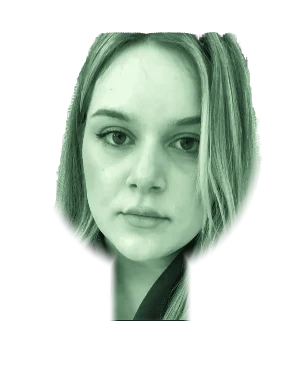
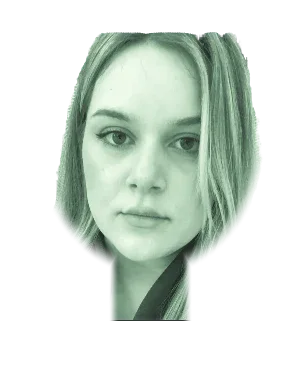
Мелочи по скриншотам: рамки, шеи, письмо в финале
Ребусы: галочка наезжала на «2+2=4», подписи Ctrl+C и Ctrl+V вылезали
за клавиши, а человечкам обрезало ноги нижним краем картинки. Ширина
надписей теперь задана через textLength, человечки подняты внутрь кадра.

Лица: на вырезках шея почти чёрная, из-за этого голова висела над
воротником. На всех 14 вырезках подняты тени (curves), шея стала видна
и переходит в воротник. Наклон головы уменьшен до ±1,2°, тень от
подбородка ослаблена.

Финал: письмо убирается крестиком, чтобы рассмотреть офис, и
возвращается кнопкой «‹ Письмо» в левом верхнем углу. Фон переговорной
заменён: вместо угла с рабочими столами общий вид лофта с антресолью,
кирпичом и коробками TERRO.

diff --git a/js/art.js b/js/art.js
@@ -6,7 +6,7 @@ export const esc = s => String(s).replace(/[&<>"]/g, c => ({ '&': '&amp;', '<': 
 // Костюм-бюст: покатые плечи, рукава по бокам, тень от подбородка на груди.
 // Голова-вырезка лежит слоем ниже, поэтому тень и воротник ложатся прямо на фото и связывают их.
 const SUIT = `
-<ellipse class="chin-shade" cx="50" cy="70.5" rx="15" ry="8.5" filter="url(#fSoft)"/>
+<ellipse class="chin-shade" cx="50" cy="67" rx="14" ry="7.5" filter="url(#fSoft)"/>
 <path class="suit" d="M17.5 200 L15.5 150 Q12 104 14.5 90 Q18 79 30 75.5 L42 71 Q50 80 58 71 L70 75.5 Q82 79 85.5 90 Q88 104 84.5 150 L82.5 200 Z"/>
 <path class="sleeve" d="M17.5 200 L15.5 150 Q12 104 14.5 90 Q18 79 30 75.5 L33.5 80.5 Q24 87 22.5 104 Q21.8 145 23 200 Z"/>
 <path class="sleeve" d="M82.5 200 L84.5 150 Q88 104 85.5 90 Q82 79 70 75.5 L66.5 80.5 Q76 87 77.5 104 Q78.2 145 77 200 Z"/>
@@ -59,7 +59,7 @@ function grinOverlay(mouth) {
 // У каждого свой наклон и рост, иначе ряд выглядит как копии одной фигуры.
 function pose(id) {
   const rnd = hash(id + '#pose');
-  return `--tilt:${(rnd() * 3.2 - 1.6).toFixed(2)}deg;--sc:${(0.955 + rnd() * 0.09).toFixed(3)};--ht:${(rnd() * 3.6 - 1.8).toFixed(2)}deg`;
+  return `--tilt:${(rnd() * 3.2 - 1.6).toFixed(2)}deg;--sc:${(0.955 + rnd() * 0.09).toFixed(3)};--ht:${(rnd() * 2.4 - 1.2).toFixed(2)}deg`;
 }
 
 export function person(id, { cls = '', name = true, snow = false } = {}) {
@@ -203,7 +203,7 @@ const MAN = (x, y, s = 1, run = false) => `<g transform="translate(${x} ${y}) sc
   <rect x="-4" y="-18" width="8" height="20" rx="2"/>
   ${run ? '<path class="rb-l" d="M-3 2 L-14 16 M3 2 L12 14 M-4 -12 L-16 -18 M4 -12 L16 -6"/>' : '<path class="rb-l" d="M-3 2 L-6 20 M3 2 L6 20 M-4 -12 L-12 -2 M4 -12 L12 -2"/>'}
 </g>`;
-const KEY = (x, y, w, label) => `<g transform="translate(${x} ${y})"><rect x="0" y="0" width="${w}" height="22" rx="3" class="rb-o"/><text x="${w / 2}" y="16" text-anchor="middle" class="rb-t">${label}</text></g>`;
+const KEY = (x, y, w, label) => `<g transform="translate(${x} ${y})"><rect x="0" y="0" width="${w}" height="22" rx="3" class="rb-o"/><text x="${w / 2}" y="15.5" text-anchor="middle" textLength="${w - 13}" lengthAdjust="spacingAndGlyphs" class="rb-t">${label}</text></g>`;
 
 export const REBUS_ART = {
   bike: `<svg class="rb" viewBox="0 0 120 80" aria-hidden="true">
@@ -212,8 +212,8 @@ export const REBUS_ART = {
     <g transform="translate(97 20)"><path d="M-9 14 Q-9 0 0 0 Q9 0 9 14 Z"/><rect x="-11" y="14" width="22" height="3.5" rx="1.5"/><circle cx="0" cy="21" r="3"/><rect x="-1.6" y="-5" width="3.2" height="5"/></g>
   </svg>`,
   simple: `<svg class="rb" viewBox="0 0 120 80" aria-hidden="true">
-    <text x="4" y="50" class="rb-big">2+2=4</text>
-    <path class="rb-check" d="M92 40 L100 50 L115 25"/>
+    <text x="4" y="52" class="rb-big" textLength="76" lengthAdjust="spacingAndGlyphs">2+2=4</text>
+    <path class="rb-check" d="M90 42 L98 52 L114 26"/>
   </svg>`,
   run: `<svg class="rb" viewBox="0 0 120 80" aria-hidden="true">
     ${MAN(76, 58, 1.15, true)}
@@ -226,7 +226,7 @@ export const REBUS_ART = {
     <g transform="translate(98 16)"><path d="M-10 16 Q-10 0 0 0 Q10 0 10 16 Z"/><rect x="-13" y="16" width="26" height="4" rx="2"/><path class="rb-l" d="M-16 -4 L-22 -10 M16 -4 L22 -10 M0 -8 L0 -16"/></g>
   </svg>`,
   copy: `<svg class="rb" viewBox="0 0 120 80" aria-hidden="true">
-    ${KEY(6, 6, 48, 'Ctrl+C')}${KEY(62, 6, 48, 'Ctrl+V')}
-    ${MAN(40, 74, 0.9)}${MAN(80, 74, 0.9)}
+    ${KEY(4, 4, 52, 'Ctrl+C')}${KEY(64, 4, 52, 'Ctrl+V')}
+    ${MAN(38, 62, 0.82)}${MAN(82, 62, 0.82)}
   </svg>`,
 };

diff --git a/css/style.css b/css/style.css
@@ -517,8 +517,9 @@ input { font: inherit; }
 .person[data-person="yura"] .tie { fill: #cfe3c4; }
 
 /* ---------- люди ---------- */
-.person { position: relative; flex: none; aspect-ratio: 1 / 2; height: 100%; transform-origin: 50% 100%; transform: rotate(var(--tilt, 0deg)) scale(var(--sc, 1)); }
+.person { position: relative; flex: none; aspect-ratio: 1 / 2; height: 100%; isolation: isolate; transform-origin: 50% 100%; transform: rotate(var(--tilt, 0deg)) scale(var(--sc, 1)); }
 .person .fig { position: relative; z-index: 1; display: block; width: 100%; height: 100%; overflow: visible; filter: drop-shadow(1.5px 3px 4px rgba(2, 5, 3, .5)); }
+/* Нарисованная шея лежит под фото: если у вырезки шея короткая, провала до воротника не видно. */
 .person.has-face .face {
   position: absolute; left: 16%; top: 5.35%; width: 68%; height: auto; z-index: 0; pointer-events: none;
   /* низ шеи растворяется, чтобы не было прямого среза вырезки */
@@ -540,8 +541,8 @@ input { font: inherit; }
 .fig .chin-shade2 { fill: rgba(4, 8, 5, .3); }
 .fig .hem { fill: rgba(4, 8, 5, .16); }
 .fig .seam { stroke: rgba(4, 8, 5, .6); stroke-width: 1; fill: none; }
-.fig .chin-shade { fill: rgba(4, 8, 5, .5); }
-.fig .yoke { fill: rgba(4, 8, 5, .3); }
+.fig .chin-shade { fill: rgba(4, 8, 5, .32); }
+.fig .yoke { fill: rgba(4, 8, 5, .24); }
 .fig .shirt { fill: var(--shirt); }
 .fig .tie { fill: var(--tie); }
 .fig .lapel { stroke: rgba(7, 14, 9, .7); stroke-width: 1.1; fill: none; }
@@ -1045,6 +1046,18 @@ body.ten .lamp { animation: none !important; opacity: 1; }
 .final-paper p { margin: 0 0 10px; }
 .final-paper .group { width: 100%; border-radius: 2px; margin-bottom: 12px; filter: grayscale(.3) sepia(.2); }
 .final-paper .stamp { font-size: 12px; }
+.fin-x {
+  position: absolute; right: 6px; top: 6px; width: 34px; height: 34px; z-index: 3;
+  display: grid; place-items: center; border-radius: 50%;
+  background: rgba(18, 32, 22, .09); color: var(--ink); font-size: 15px; line-height: 1;
+}
+.fin-x:active { background: rgba(18, 32, 22, .2); }
+.final-wrap.away { opacity: 0; pointer-events: none; transition: opacity .3s; }
+.fin-back {
+  position: absolute; left: 10px; top: calc(env(safe-area-inset-top) + 6px); z-index: 60;
+  width: auto; min-height: 36px; padding: 6px 13px; font-size: 13.5px;
+  animation: fadein .3s;
+}
 .final-btns { display: flex; gap: 10px; width: min(100%, 360px); }
 .final-btns .btn { flex: 1; }
 

diff --git a/js/gates.js b/js/gates.js
@@ -305,10 +305,19 @@ export async function finale(onAgain) {
         <p>Всё правильно. В офисе тебя ждут пластинка с твоими любимыми песнями и нашими поздравлениями и торт.</p>
         <p>Что мы там наговорили, услышишь на месте. Приезжай, свечи сами себя не задуют.</p>
         <div class="stamp hit">СОГЛАСОВАНО<br>ВСЕМИ ОТДЕЛАМИ</div>
+        <button class="fin-x" id="finX" aria-label="Убрать письмо">✕</button>
       </div>
       <div class="final-btns"><button class="btn ghost" id="again">Пройти ещё раз</button><button class="btn" id="go">Еду!</button></div>
     </div>`);
   $('#overlay').append(fin);
   $('#go', fin).addEventListener('click', () => FX.confetti(90));
   $('#again', fin).addEventListener('click', () => { A.sfx('click'); onAgain(); });
+  // письмо убирается, чтобы посмотреть офис, и возвращается кнопкой
+  const back = h('<button class="btn ghost fin-back">‹ Письмо</button>');
+  $('#finX', fin).addEventListener('click', () => {
+    A.sfx('click');
+    fin.classList.add('away');
+    $('#overlay').append(back);
+  });
+  back.addEventListener('click', () => { A.sfx('click'); fin.classList.remove('away'); back.remove(); });
 }
